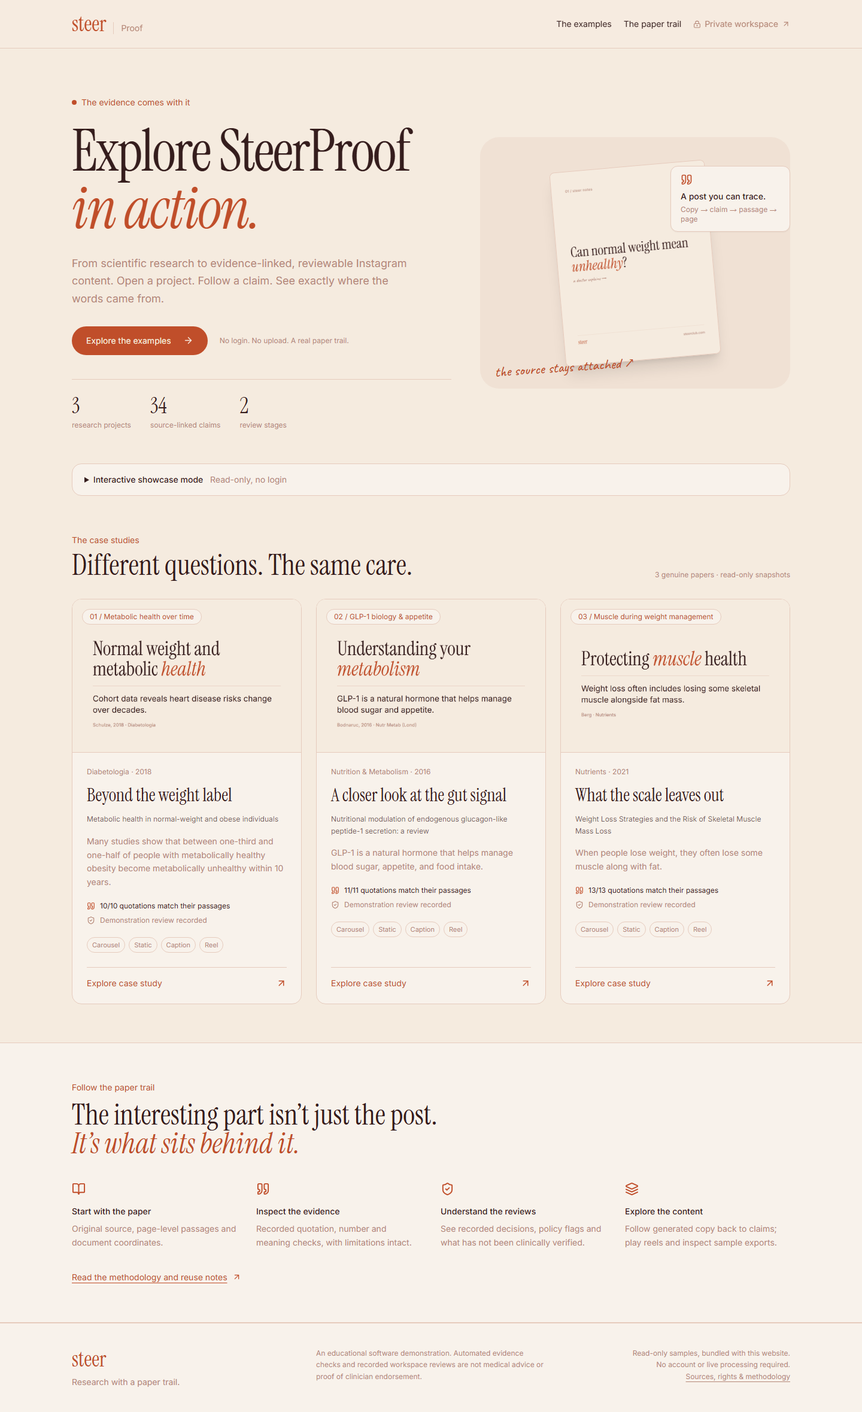
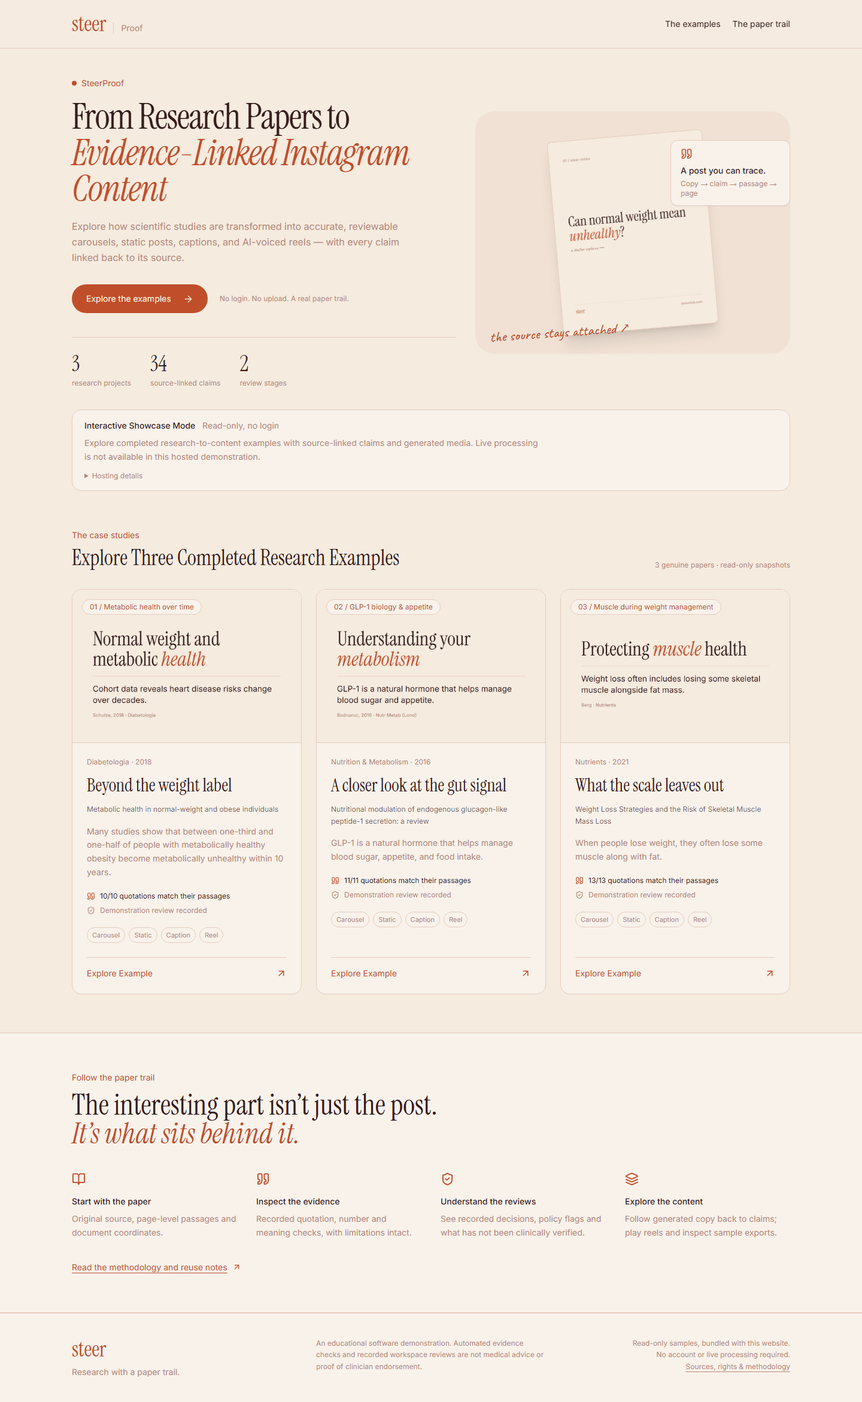
Remove public workspace login entry and verify anonymous showcase access

diff --git a/frontend/app/page.tsx b/frontend/app/page.tsx
@@ -8,14 +8,14 @@ export default function HomePage() {
   const featured = showcaseCases[0];
   const poster = featured?.assets.find(a => a.type === 'CAROUSEL')?.media[0];
   return <><PublicHeader/><main>
-    <section className="max-w-7xl mx-auto px-5 md:px-10 pt-12 md:pt-20 pb-14 grid lg:grid-cols-[1.1fr_0.9fr] gap-12 items-center">
-      <div><p className="text-sm text-rust flex items-center gap-2"><span className="w-2 h-2 rounded-full bg-rust"/> The evidence comes with it</p>
-        <h1 className="font-serif text-6xl sm:text-7xl xl:text-8xl leading-[0.98] tracking-tight mt-6">Explore SteerProof<br/><em className="font-normal text-rust">in action.</em></h1>
-        <p className="text-lg text-clay leading-relaxed mt-7 max-w-xl">From scientific research to evidence-linked, reviewable Instagram content. Open a project. Follow a claim. See exactly where the words came from.</p>
+    <section className="max-w-7xl mx-auto px-5 md:px-10 pt-8 md:pt-12 pb-9 grid lg:grid-cols-[1.1fr_0.9fr] gap-8 items-center">
+      <div><p className="text-sm text-rust flex items-center gap-2"><span className="w-2 h-2 rounded-full bg-rust"/> SteerProof</p>
+        <h1 className="font-serif text-4xl sm:text-5xl xl:text-6xl leading-[1.04] tracking-tight mt-4">From Research Papers to <em className="font-normal text-rust">Evidence-Linked Instagram Content</em></h1>
+        <p className="text-base text-clay leading-relaxed mt-5 max-w-xl">Explore how scientific studies are transformed into accurate, reviewable carousels, static posts, captions, and AI-voiced reels — with every claim linked back to its source.</p>
         <div className="mt-8 flex flex-wrap items-center gap-5"><a href="#examples" className="bg-rust text-cream px-6 py-3.5 rounded-full text-sm inline-flex items-center gap-5 hover:bg-maroon transition-colors">Explore the examples <ArrowRight size={17}/></a><span className="text-xs text-clay">No login. No upload. A real paper trail.</span></div>
         <div className="mt-10 flex gap-8 border-t border-blush pt-6"><div><p className="font-serif text-4xl">{showcaseCases.length}</p><p className="text-xs text-clay mt-1">research projects</p></div><div><p className="font-serif text-4xl">{total}</p><p className="text-xs text-clay mt-1">source-linked claims</p></div><div><p className="font-serif text-4xl">2</p><p className="text-xs text-clay mt-1">review stages</p></div></div>
       </div>
-      <div className="relative bg-blush/30 rounded-[2rem] p-7 sm:p-10 min-h-[420px] flex items-center justify-center">
+      <div className="relative bg-blush/30 rounded-[2rem] p-7 sm:p-10 min-h-[340px] flex items-center justify-center">
         {poster && <Link href={`/showcase/${featured.slug}`} aria-label={`Explore ${featured.title}`} className="block max-w-[260px] w-full rotate-[-5deg] shadow-xl rounded-lg overflow-hidden border border-blush"><img src={poster.url} width={1080} height={1350} alt="A generated Steer carousel from the featured research project" className="w-full h-auto" fetchPriority="high"/></Link>}
         <div className="absolute right-3 sm:right-0 top-12 bg-softPaper border border-blush rounded-xl px-4 py-3 shadow-sm max-w-[200px]"><Quote size={20} className="text-rust mb-2"/><p className="text-sm font-medium">A post you can trace.</p><p className="text-xs text-clay mt-1">Copy → claim → passage → page</p></div>
         <p className="absolute left-6 bottom-5 font-hand text-2xl text-rust rotate-[-4deg]">the source stays attached ↗</p>
@@ -23,7 +23,7 @@ export default function HomePage() {
     </section>
     <div className="max-w-7xl mx-auto px-5 md:px-10"><ShowcaseMode/></div>
     <section id="examples" className="max-w-7xl mx-auto px-5 md:px-10 py-16 scroll-mt-24">
-      <div className="flex items-end justify-between gap-5 mb-8"><div><p className="text-sm text-rust mb-2">The case studies</p><h2 className="font-serif text-4xl md:text-5xl">Different questions. The same care.</h2></div><span className="hidden sm:block text-xs text-clay">{showcaseCases.length} genuine papers · read-only snapshots</span></div>
+      <div className="flex items-end justify-between gap-5 mb-8"><div><p className="text-sm text-rust mb-2">The case studies</p><h2 className="font-serif text-3xl md:text-4xl">Explore Three Completed Research Examples</h2></div><span className="hidden sm:block text-xs text-clay">{showcaseCases.length} genuine papers · read-only snapshots</span></div>
       <div className="grid md:grid-cols-3 gap-6">{showcaseCases.map((item, index) => {
         const image = item.assets.find(a => a.type === 'STATIC')?.media[0];
         const matched = item.claims.filter(c => c.quoteScore >= 90 && c.reproducedQuoteScore >= 90).length;
@@ -37,7 +37,7 @@ export default function HomePage() {
             <p className="text-sm text-clay leading-relaxed mt-4 line-clamp-4">{item.summary}</p>
             <div className="mt-5 space-y-2 text-xs"><p className="flex items-center gap-2"><Quote size={14} className="text-rust"/>{matched}/{item.claims.length} quotations match their passages</p><p className="flex items-center gap-2 text-clay"><ShieldCheck size={14}/>{item.review.kind === 'demonstration' ? 'Demonstration review recorded' : 'Workspace approvals recorded; credentials unverified'}</p></div>
             <div className="flex flex-wrap gap-1.5 mt-5 mb-6">{item.assets.filter(a => a.type === 'CAPTION' || a.media.length).map(a => <span key={a.assetId} className="text-[11px] rounded-full border border-blush px-2 py-1 text-clay">{({CAROUSEL:'Carousel',STATIC:'Static',CAPTION:'Caption',REEL:'Reel'} as Record<string,string>)[a.type]}</span>)}</div>
-            <Link href={`/showcase/${item.slug}`} className="mt-auto pt-4 border-t border-blush flex items-center justify-between text-sm text-rust">Explore case study <ArrowUpRight size={18}/></Link>
+            <Link href={`/showcase/${item.slug}`} className="mt-auto pt-4 border-t border-blush flex items-center justify-between text-sm text-rust">Explore Example <ArrowUpRight size={18}/></Link>
           </div>
         </article>;
       })}</div>

diff --git a/frontend/components/showcase/PublicChrome.tsx b/frontend/components/showcase/PublicChrome.tsx
@@ -1,5 +1,4 @@
 import Link from 'next/link';
-import {ArrowUpRight, LockKeyhole} from 'lucide-react';
 
 export function PublicHeader() {
   return <header className="border-b border-blush bg-cream/95 sticky top-0 z-40 backdrop-blur">
@@ -8,7 +7,6 @@ export function PublicHeader() {
       <nav aria-label="Main navigation" className="flex items-center gap-5 text-sm">
         <Link href="/#examples" className="hover:text-rust">The examples</Link>
         <Link href="/#how-it-works" className="hidden sm:block hover:text-rust">The paper trail</Link>
-        <Link href="/workspace" className="text-clay hover:text-rust flex items-center gap-1.5"><LockKeyhole size={13}/><span className="hidden sm:inline">Private workspace</span><span className="sm:hidden">Workspace</span><ArrowUpRight size={14}/></Link>
       </nav>
     </div>
   </header>;
@@ -25,8 +23,9 @@ export function PublicFooter() {
 }
 
 export function ShowcaseMode() {
-  return <details className="border border-blush rounded-2xl bg-softPaper px-5 py-4 text-sm">
-    <summary className="cursor-pointer text-ink font-medium">Interactive showcase mode <span className="text-clay font-normal ml-2">Read-only, no login</span></summary>
-    <p className="text-clay leading-relaxed mt-3 max-w-3xl">Explore completed research-to-content projects, including source-linked claims, generated posts and reels. Live processing is unavailable in this hosted demonstration. These curated snapshots and media are served by the frontend independently of Render. The private API remains authenticated and runs in its 512 MB API-only mode.</p>
-  </details>;
+  return <aside aria-label="Interactive showcase mode" className="border border-blush rounded-2xl bg-softPaper px-5 py-4 text-sm">
+    <p className="text-ink font-medium">Interactive Showcase Mode <span className="text-clay font-normal ml-2">Read-only, no login</span></p>
+    <p className="text-clay leading-relaxed mt-2 max-w-3xl">Explore completed research-to-content examples with source-linked claims and generated media. Live processing is not available in this hosted demonstration.</p>
+    <details className="text-xs mt-3 text-clay"><summary className="cursor-pointer">Hosting details</summary><p className="leading-relaxed mt-2 max-w-3xl">These curated snapshots and media are served by the frontend independently of Render. The private API remains authenticated and runs in its 512 MB API-only mode. Full processing remains available in the local application.</p></details>
+  </aside>;
 }

diff --git a/backend/src/test/java/com/steerclub/steerproof/common/WorkspaceAuthTest.java b/backend/src/test/java/com/steerclub/steerproof/common/WorkspaceAuthTest.java
@@ -11,12 +11,31 @@ class WorkspaceAuthTest {
     private final WorkspaceAuth auth = new WorkspaceAuth(PASSWORD, true);
 
     private int request(String path, String bearer, String media) throws Exception {
-        var request = new MockHttpServletRequest("GET", path);
+        return request("GET", path, bearer, media);
+    }
+
+    private int request(String method, String path, String bearer, String media) throws Exception {
+        var request = new MockHttpServletRequest(method, path);
         if (bearer != null) request.addHeader("Authorization", "Bearer " + bearer);
         if (media != null) request.setParameter("access_token", media);
         var response = new MockHttpServletResponse();
         new WorkspaceAuthFilter(auth, new ObjectMapper()).doFilter(request, response, (req, res) -> response.setStatus(204));
         return response.getStatus();
+    }
+
+    @Test void anonymousVisitorsCannotReadOrMutatePrivateWorkspaceData() throws Exception {
+        String[][] operations = {
+                {"GET", "/api/papers"}, {"GET", "/api/papers/P-0003"},
+                {"POST", "/api/papers"}, {"PATCH", "/api/claims/C-0003-003"},
+                {"DELETE", "/api/papers/P-0003"}, {"POST", "/api/assets/A-0003-CAR/approve"},
+                {"POST", "/api/papers/P-0003/generate"}, {"POST", "/api/papers/P-0003/export"}
+        };
+        var session = auth.login(PASSWORD);
+        for (String[] operation : operations) {
+            assertEquals(401, request(operation[0], operation[1], null, null));
+            assertEquals(401, request(operation[0], operation[1], session.mediaToken(), null));
+            assertEquals(204, request(operation[0], operation[1], session.token(), null));
+        }
     }
 
     @Test void productionRequiresASecret() {

diff --git a/docs/PUBLIC_ACCESS.md b/docs/PUBLIC_ACCESS.md
@@ -1,0 +1,184 @@
+# Public, no-login release
+
+## Authentication investigation
+
+The original application password screen came from `WorkspaceAccess`, formerly
+mounted in the root layout. It appears when `GET /api/auth/config` returns
+`enabled: true` and `readSession()` finds no valid workspace session. Production
+authentication is enabled by the server-side `DEPLOYMENT_ACCESS_KEY` setting.
+
+The current checkout already separates public routes from the private route group.
+Its remaining public-navigation problem was the header's `/workspace` link, which
+sent visitors into that private login flow. This revision removes that entry point.
+It also applies the requested homepage copy and makes the hosted-mode limitation
+visible without expanding a disclosure. The password form remains available only
+through intentionally private URLs.
+
+| Investigation | Actual code / behavior |
+| --- | --- |
+| Password UI | `frontend/components/WorkspaceAccess.tsx` |
+| Password verification | `POST /api/auth/login`, `WorkspaceAuthController` → `WorkspaceAuth.login` |
+| Deployment key | Server-side shared private-workspace credential; never automatically sent to public visitors |
+| Guard scope | `frontend/app/(workspace)/layout.tsx`, covering `/workspace` and `/papers/[id]` and its subpages |
+| Global authentication | Public root layout has no auth/reviewer provider; there is no middleware/proxy login redirect |
+| Automatic bearer header | `frontend/lib/api.ts` attaches an existing private session only to the configured Spring API origin |
+| Session storage | `frontend/lib/session.ts`; invalid, expired, missing or inaccessible sessions read as absent |
+| Reviewer local storage | Private `ReviewerContext`; it is not mounted on showcase pages |
+| 401 handling | Private API helper clears its session and emits `steerproof:signout`; only the private guard listens |
+| 403 handling | API errors are reported; no public authentication redirect exists |
+| Public data | `frontend/showcase/generated/cases.json`, imported without the private API/session helpers |
+| Refresh / direct links | Static case/evidence routes render without tokens, cookies or browser storage |
+
+No backend authorization code was changed. `WorkspaceAuthFilter` still protects
+private reads, uploads, claim edits, approvals, deletion, private exports, processing
+and `/files`. Health and login/configuration retain their existing public exceptions.
+Scientific approval gates, audit logging, exact CORS origins and production secret
+requirements remain intact. A regression test now checks real HTTP methods for
+private reads and mutations, rejecting both anonymous requests and media-token misuse.
+
+If a deployed root still shows a password, that behavior does not match the tested
+current checkout. Verify its deployed commit, project root, URL and platform protection.
+No production URL was supplied for inspecting the actual live deployment, and no
+cloud deployment or settings were changed.
+
+## Visitor experience and preserved samples
+
+The root displays **SteerProof**, the requested **From Research Papers to
+Evidence-Linked Instagram Content** headline, the requested supporting description,
+and **Explore Three Completed Research Examples** with three **Explore Example**
+actions. Public navigation contains only public links. The visible hosted-mode notice
+explains that live processing is unavailable; technical details remain expandable.
+
+| Public case | Genuine paper | Available outputs |
+| --- | --- | --- |
+| `/showcase/metabolic-health` | Schulze, *Metabolic health in normal-weight and obese individuals*, DOI `10.1007/s00125-018-4787-8` | 5 carousel slides, 3 static sizes, caption, voiced reel, VTT, educational ZIP |
+| `/showcase/glp1-and-appetite` | Bodnaruc et al., *Nutritional modulation of endogenous glucagon-like peptide-1 secretion: a review*, DOI `10.1186/s12986-016-0153-3` | 6 carousel slides, 3 static sizes, caption, voiced reel, VTT, educational ZIP |
+| `/showcase/muscle-preservation` | McCarthy & Berg, *Weight Loss Strategies and the Risk of Skeletal Muscle Mass Loss*, DOI `10.3390/nu13072473` | 5 carousel slides, 3 static sizes, caption, voiced reel, VTT, educational ZIP |
+
+Each example preserves the existing seven-stage explorer, actual review records,
+claim/quote/page links, source PDF, original Docling coordinates and scientific cautions.
+Reviews are disclosed as demonstrations, not established clinician sign-off. The
+curated selection contains 34 claims; nine rejected unused archive claims with
+unreliable spatial records remain explicitly disclosed as excluded. Nothing was
+regenerated or reapproved for this revision.
+
+Public routes are `/`, `/showcase/{slug}`, `/showcase/{slug}/evidence/{claimId}`,
+`/showcase/credits`, `GET /api/showcase`, `GET /api/showcase/{slug}`, and the fixed
+`/showcase/media/...` and font files. Public JSON APIs are served by Next.js, not
+proxied to Spring. They expose only the sanitized snapshots; mutating methods return
+405. No new Spring public exception or paid storage was added.
+
+The existing version-controlled public manifest and media remain under
+`frontend/showcase/generated` and `frontend/public/showcase`. The 55 media files total
+21.88 MiB; the largest is 2.85 MiB. Their delivery is independent of Render, PostgreSQL,
+temporary files and the preparation laptop. Sources are attributed under CC BY 4.0;
+composited footage credits, removed unverified music, original voice timings and
+draft/clinical-review disclosures remain documented in [SHOWCASE.md](SHOWCASE.md).
+
+## Tests executed for this revision
+
+| Check | Result |
+| --- | --- |
+| Next.js production build with `VERCEL=1` and unreachable HTTPS API origin | Passed; 3 case pages and 34 evidence pages built without localhost/backend access |
+| Frontend TypeScript | Passed |
+| Full desktop/mobile public browser journey | Passed with cookies disabled through Chromium CDP and local/session storage getters throwing SecurityError |
+| Empty browser storage | Passed: all three examples and refresh without login |
+| Returning browser with stale private session | Passed: no public redirect or bearer-header leakage |
+| Public navigation | No workspace/private-record link; all three real card actions navigate correctly |
+| Images, carousels, reels, VTT and ZIPs | Passed on desktop/mobile; videos actually played |
+| Public errors/mutations | Unknown cases 404; POST/PATCH/PUT/DELETE 405 |
+| Private layout guard | Still prompts only on direct private URLs (auth configuration simulated in the browser test) |
+| Existing private workspace browser suite | 17/17 passed against the local full application |
+| Spring build and full tests | 87 passed; production JAR packaged |
+| ML tests | 65 passed; one existing SDK deprecation warning |
+| Renderer tests and TypeScript | 16 passed; typecheck passed |
+| Source/media/secret integrity suite | 5 passed, including actual local secret comparisons against public text assets and built browser JavaScript |
+| Free-mode startup tests | 3 passed |
+| Actual authenticated 512 MiB / no-swap API container | Anonymous private reads, mutations, approvals, exports and media returned 401; health and authenticated capabilities passed; processing returned 503 |
+
+The isolated API container ran Java only; observed memory after exercising endpoints
+was 284.1 MiB of 512 MiB. This is an observation, not a peak-memory guarantee. No new
+backend runtime dependency or startup process was added. The test container was stopped
+after verification; the user's full local application was preserved.
+
+The browser tests deliberately block every external/backend request during public
+exploration and assert no Authorization headers. The production verification build
+uses a deliberately unreachable `.invalid` HTTPS API address only as a test fixture;
+that value is not a deployment setting or source-code default.
+
+Screenshots: [desktop homepage](screenshots/showcase-home-desktop.png),
+[mobile homepage](screenshots/showcase-home-mobile.png),
+[desktop evidence](screenshots/showcase-evidence-desktop.png),
+[mobile evidence](screenshots/showcase-evidence-mobile.png).
+The updated [artifact manifest](showcase-artifacts.json) records exact file hashes.
+
+## Files changed in this revision
+
+- `frontend/components/showcase/PublicChrome.tsx`: remove the workspace login entry
+  from every public header; show the hosted-mode limitation directly.
+- `frontend/app/page.tsx`: requested headline, description, example heading and card
+  actions; compact the existing hero without replacing the site's design.
+- `scripts/showcase_browser_test.cjs`: cookie/storage-disabled tests, empty/returning
+  sessions, no private navigation/bearer headers, exact card navigation and disclosure.
+- `backend/src/test/java/com/steerclub/steerproof/common/WorkspaceAuthTest.java`:
+  anonymous and media-token rejection for private HTTP reads and mutations.
+- `docs/PUBLIC_ACCESS.md`, `docs/SHOWCASE.md`, `docs/SHOWCASE_VERIFICATION.md`,
+  `README.md`: release instructions and accurate audit/test results.
+- `docs/screenshots/*`, `docs/showcase-artifacts.json`: updated visual evidence/hashes.
+
+The root/private layouts, auth filter/controller, private API helpers, model pipeline,
+sample data/media, Docker startup and database schema require no changes in this revision.
+
+## Exact commit and release steps
+
+Run from the repository root. These commands are instructions; they have not been run:
+
+```powershell
+git status --short
+git add README.md frontend/app/page.tsx frontend/components/showcase/PublicChrome.tsx scripts/showcase_browser_test.cjs backend/src/test/java/com/steerclub/steerproof/common/WorkspaceAuthTest.java docs/PUBLIC_ACCESS.md docs/SHOWCASE.md docs/SHOWCASE_VERIFICATION.md docs/screenshots docs/showcase-artifacts.json
+git diff --cached --stat
+git commit -m "Remove public workspace login entry and verify anonymous showcase"
+git push origin HEAD
+```
+
+Keep this repository private. Do not stage runtime logs, `.env*`, caches, storage,
+dependencies or build directories. The existing public sample assets must remain
+tracked; they are intentionally public and already part of the repository. Pushing
+can trigger existing auto-deploy settings; disable auto-deploy in the dashboards first
+if you want a strictly manual release.
+
+| Deployment item | Required for this revision? |
+| --- | --- |
+| Vercel redeployment | **Yes**, to publish the new public navigation, copy and notice |
+| Render redeployment | **No runtime backend change**; optional if your release process redeploys the repository |
+| Environment changes | None if the current URLs/CORS are correct; keep the real Render HTTPS origin in `NEXT_PUBLIC_API_URL` for private workspace access |
+| Database migrations | None |
+| Static asset publication | Existing bundled media must ship with `frontend`; updated screenshots/docs are review evidence |
+| Billing/paid services | None |
+
+1. In Vercel, select the existing project, the new commit and the intended production
+   branch. Keep Root Directory `frontend`, Framework Next.js, Node 22.x, install
+   `npm ci`, build `npm run build`, and default output directory. Redeploy the latest
+   commit; disable old build cache if you are still seeing an older UI.
+2. Keep `NEXT_PUBLIC_API_URL=https://YOUR_EXISTING_RENDER_SERVICE.onrender.com` for
+   private workspace calls. Never put deployment, Gemini or database secrets in
+   `NEXT_PUBLIC_` variables. Public examples do not call this origin. Environment
+   changes take effect on a new deployment. See [Vercel deployment management](https://vercel.com/docs/deployments/managing-deployments)
+   and [environment variables](https://vercel.com/docs/environment-variables).
+3. If the intended production domain has Vercel Deployment Protection enabled, make
+   that public domain accessible in the project dashboard. Platform authentication
+   cannot be removed by changing React or Spring. Keep private app authentication.
+4. Keep Render on Free with `PROCESSING_MODE=api`, temporary storage and
+   `DEMO_MODE=false`. Preserve PostgreSQL, `DEPLOYMENT_ACCESS_KEY`, model variables
+   and the exact frontend CORS origin. Keep Docker/root Dockerfile, no custom start
+   command, `/actuator/health` readiness, and Render's assigned public `PORT`.
+   No new worker, persistent disk or processing service is required. Render's
+   [Free service filesystem is ephemeral](https://render.com/docs/free); public
+   media is therefore served from the Vercel deployment.
+5. Open production `/`, each case and a direct evidence URL in a new private window.
+   Confirm no workspace link/password, three cases, readable evidence and playable
+   media/downloads. Refresh and repeat on mobile. Direct private URLs should retain
+   protection; do not clear the server-side deployment key.
+
+No automatic deployment, Git push, billing update or cloud setting change was made.
+The live production commit/domain cannot be confirmed without its URL/dashboard.

diff --git a/README.md b/README.md
@@ -13,7 +13,7 @@
 
 For Vercel frontend and Render backend setup, follow [the deployment guide](docs/DEPLOYMENT.md). Cloud hosting and persistent storage may cost money; no cloud resources are created by this repository.
 
-The root website is now a public, read-only showcase with three genuine local research-to-content runs. Source evidence and media are bundled with the frontend, so exploration works without Render or the preparation laptop. Reviews are explicitly disclosed as demonstrations, not clinician endorsement. The authenticated application lives at `/workspace`. See [showcase preparation, verification and release steps](docs/SHOWCASE.md).
+The root website is a public, read-only showcase with three genuine local research-to-content runs and no login entry in public navigation. Source evidence and media are bundled with the frontend, so exploration works without Render or the preparation laptop, even with cookies/browser storage disabled. Reviews are explicitly disclosed as demonstrations, not clinician endorsement. The authenticated application remains available directly at `/workspace`. See [the public-access audit and exact release steps](docs/PUBLIC_ACCESS.md) and [showcase preparation](docs/SHOWCASE.md).
 
 > **A dual-gated, evidence-traceable clinical publishing system that turns dense metabolic health research papers into on-brand Instagram Carousels, Static Posts, AI-voiced Video Reels, and Captions for [Steer](https://steerclub.com).**
 >

diff --git a/docs/SHOWCASE.md b/docs/SHOWCASE.md
@@ -1,5 +1,10 @@
 # Public showcase release
 
+For the latest authentication audit, removal of the public workspace entry point,
+cookie/storage-disabled browser checks and exact commit/redeployment commands,
+see [PUBLIC_ACCESS.md](PUBLIC_ACCESS.md). The private workspace remains available
+directly at `/workspace`; public navigation does not advertise a login.
+
 The public homepage is `/`. The old password appeared because `app/layout.tsx`
 wrapped **every route** in `WorkspaceAccess`. That guard checks `/api/auth/config`
 and renders the workspace password form when production authentication is enabled.

diff --git a/docs/SHOWCASE_VERIFICATION.md b/docs/SHOWCASE_VERIFICATION.md
@@ -1,5 +1,10 @@
 # Showcase implementation and verification
 
+The [public-access follow-up report](PUBLIC_ACCESS.md) records the latest revision:
+no public workspace/login entry, requested homepage copy, always-visible hosted-mode
+disclosure, browser checks with cookies/storage disabled and 87 backend tests.
+Historical sample-preparation results below remain applicable to the bundled media.
+
 Verified locally on 19 October 2026. No cloud deployment, purchase or plan change was performed.
 
 ## Outcome
